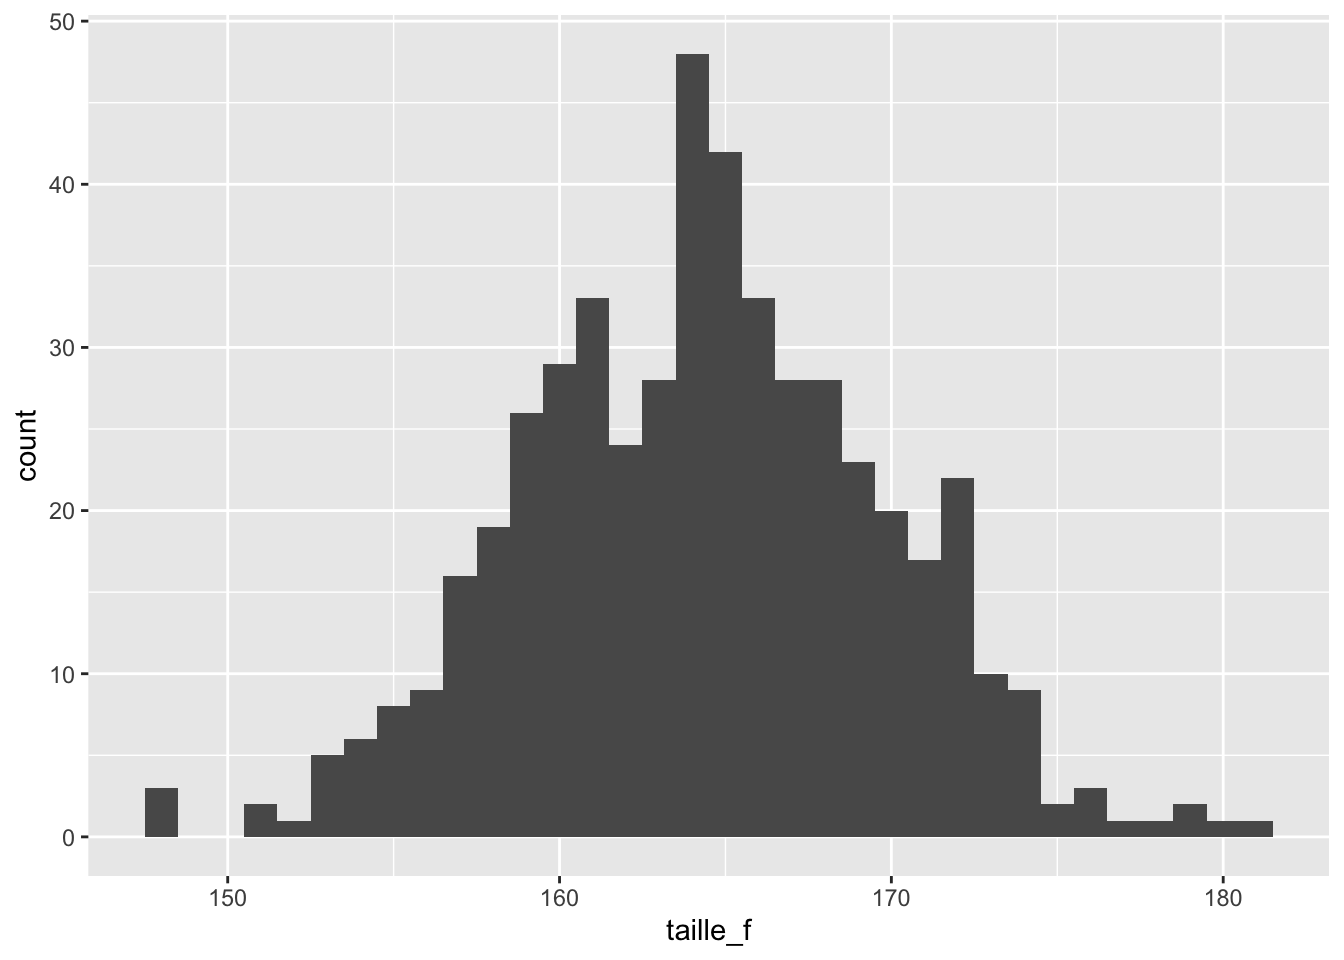
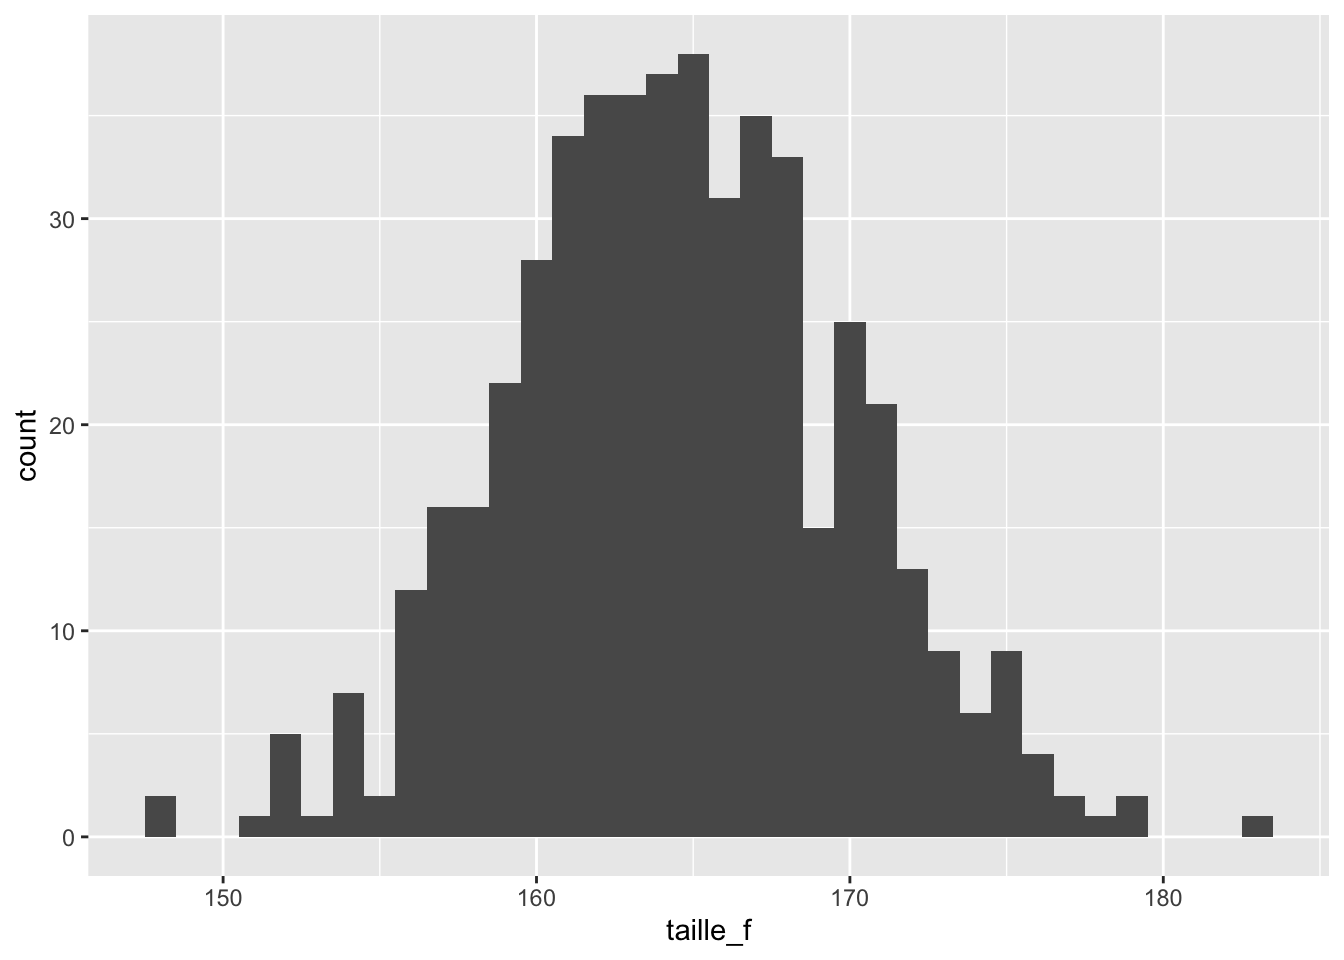
session 8 v3

diff --git a/index.html b/index.html
@@ -1375,9 +1375,9 @@ Astuce
 <table class="table">
 <caption>Les couches d’un graphique ggplot</caption>
 <colgroup>
+<col style="width: 31%">
+<col style="width: 29%">
 <col style="width: 38%">
-<col style="width: 53%">
-<col style="width: 8%">
 </colgroup>
 <thead>
 <tr class="header">
@@ -1728,7 +1728,7 @@ Attention
 <span id="cb100-5"><a href="#cb100-5" aria-hidden="true" tabindex="-1"></a></span>
 <span id="cb100-6"><a href="#cb100-6" aria-hidden="true" tabindex="-1"></a><span class="fu">head</span>(taille_f)</span></code><button title="Copy to Clipboard" class="code-copy-button"><i class="bi"></i></button></pre></div>
 <div class="cell-output cell-output-stdout">
-<pre><code>[1] 161.1681 162.2840 165.1902 170.7078 164.9873 170.9400</code></pre>
+<pre><code>[1] 157.2253 163.2655 167.7270 168.5595 167.6907 166.2602</code></pre>
 </div>
 <div class="sourceCode cell-code" id="cb102"><pre class="sourceCode r code-with-copy"><code class="sourceCode r"><span id="cb102-1"><a href="#cb102-1" aria-hidden="true" tabindex="-1"></a><span class="co"># stocker taille_f comme objet de type 'data.frame'</span></span>
 <span id="cb102-2"><a href="#cb102-2" aria-hidden="true" tabindex="-1"></a>taille_f <span class="ot">&lt;-</span> <span class="fu">as.data.frame</span>(taille_f)</span>
@@ -2414,7 +2414,8 @@ Astuce
 </section>
 <section id="session-8-cours-en-auto-apprentissage" class="level1">
 <h1>Session 8 (cours en auto-apprentissage)</h1>
-<p><strong>Sujet : Manipuler les données (partie 2)</strong> Le matériel de cette session sera mis à disposition ici ultérieurement.</p>
+<p><strong>Sujet : Manipuler les données (partie 2)</strong></p>
+<p>Le matériel de cette session sera mis à disposition ici ultérieurement.</p>
 </section>
 
 <div id="quarto-appendix" class="default"><section class="quarto-appendix-contents" id="quarto-reuse"><h2 class="anchored quarto-appendix-heading">Reuse</h2><div class="quarto-appendix-contents"><div>MIT</div></div></section></div></main>
